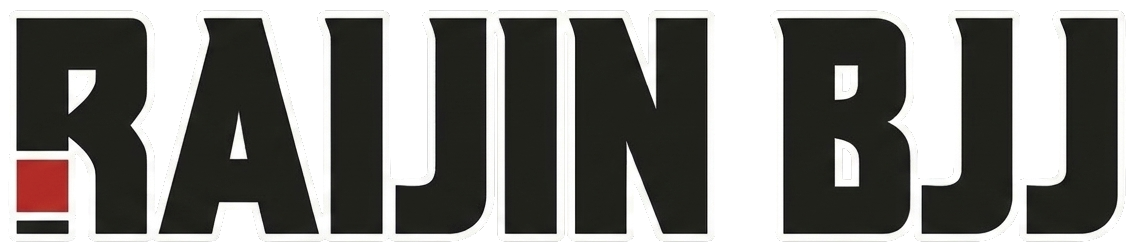
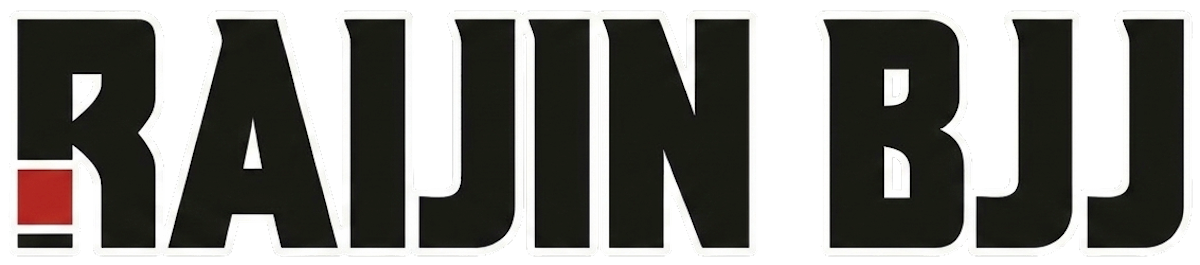
Optimise images to webp for faster load times

diff --git a/index.html b/index.html
@@ -38,12 +38,12 @@
                     </div>
                 </div>
                 <div>
-                    <img src="assets/images/raijin-hero.png" alt="Raijin BJJ Hanoi Hero" class="responsive-img"
-                        style="width: 100%; aspect-ratio: 4 / 3; border-radius: 8px; object-fit: cover;"
+                    <img src="assets/images/raijin-hero-test.webp" alt="Raijin BJJ Hanoi Hero" class="responsive-img"
+                        style="width: 100%; aspect-ratio: 3 / 2; border-radius: 8px; object-fit: cover;"
                         onerror="this.style.display='none'; this.nextElementSibling.style.display='block';" />
                     <div class="img-placeholder" style="display: none; min-height: 340px;">
                         <span>[RAIJIN HERO PHOTO PLACEHOLDER]</span>
-                        <p>File: assets/images/raijin-hero.jpg</p>
+                        <p>File: assets/images/raijin-hero.webp</p>
                     </div>
                 </div>
             </div>
@@ -60,13 +60,13 @@
                     <!-- Gi Classes Card -->
                     <div class="card">
                         <div style="margin-bottom: 20px;">
-                            <img src="assets/images/raijin-gi.png" alt="Raijin BJJ Gi Class session"
+                            <img src="assets/images/raijin-gi.webp" alt="Raijin BJJ Gi Class session"
                                 class="responsive-img"
                                 style="width: 100%; aspect-ratio: 4/3; border-radius: 8px; object-fit: cover;"
                                 onerror="this.style.display='none'; this.nextElementSibling.style.display='block';" />
                             <div class="img-placeholder" style="display: none; min-height: 180px;">
                                 <span>[GI CLASS PHOTO PLACEHOLDER]</span>
-                                <p>File: assets/images/gi-class.jpg</p>
+                                <p>File: assets/images/gi-class.webp</p>
                             </div>
                         </div>
                         <h3>Gi Classes</h3>
@@ -77,13 +77,13 @@
                     <!-- No-Gi Classes Card -->
                     <div class="card">
                         <div style="margin-bottom: 20px;">
-                            <img src="assets/images/raijin-no-gi.png" alt="Raijin BJJ No-Gi Class session"
+                            <img src="assets/images/raijin-no-gi.webp" alt="Raijin BJJ No-Gi Class session"
                                 class="responsive-img"
                                 style="width: 100%; aspect-ratio: 4/3; border-radius: 8px; object-fit: cover;"
                                 onerror="this.style.display='none'; this.nextElementSibling.style.display='block';" />
                             <div class="img-placeholder" style="display: none; min-height: 180px;">
                                 <span>[NO-GI CLASS PHOTO PLACEHOLDER]</span>
-                                <p>File: assets/images/nogi-class.png</p>
+                                <p>File: assets/images/nogi-class.webp</p>
                             </div>
                         </div>
                         <h3>No-Gi Classes</h3>
@@ -94,13 +94,13 @@
                     <!-- Open Mat Card -->
                     <div class="card">
                         <div style="margin-bottom: 20px;">
-                            <img src="assets/images/raijin-open-mat.png" alt="Raijin BJJ open mat session"
+                            <img src="assets/images/raijin-open-mat.webp" alt="Raijin BJJ open mat session"
                                 class="responsive-img"
                                 style="width: 100%; aspect-ratio: 4/3; border-radius: 8px; object-fit: cover;"
                                 onerror="this.style.display='none'; this.nextElementSibling.style.display='block';" />
                             <div class="img-placeholder" style="display: none; min-height: 180px;">
                                 <span>[RAIJIN OPEN MAT PHOTO PLACEHOLDER]</span>
-                                <p>File: assets/images/raijin-open-mat.png</p>
+                                <p>File: assets/images/raijin-open-mat.webp</p>
                             </div>
                         </div>
                         <h3>Open Mat</h3>
@@ -124,13 +124,13 @@
                             globe, creating a diverse and engaging training atmosphere.</p>
                     </div>
                     <div>
-                        <img src="assets/images/raijin-community.png"
+                        <img src="assets/images/raijin-community.webp"
                             alt="Raijin BJJ Hanoi Community, Members and Coaching" class="responsive-img"
-                            style="width: 100%; height: auto; border-radius: 8px; object-fit: cover;"
+                            style="width: 100%; aspect-ratio: 4/3; border-radius: 8px; object-fit: cover;"
                             onerror="this.style.display='none'; this.nextElementSibling.style.display='block';" />
                         <div class="img-placeholder" style="display: none;">
                             <span>[RAIJIN COMMUNITY PHOTO PLACEHOLDER]</span>
-                            <p>File: assets/images/raijin-community.png</p>
+                            <p>File: assets/images/raijin-community.webp</p>
                         </div>
                     </div>
                 </div>
@@ -145,12 +145,12 @@
                     complete details.</p>
 
                 <div class="timetable-image-container" style="text-align: center; max-width: 500px; margin: 0 auto;">
-                    <img src="assets/images/raijin-timetable.png" alt="Raijin BJJ Hanoi Weekly Class Schedule"
+                    <img src="assets/images/raijin-timetable.webp" alt="Raijin BJJ Hanoi Weekly Class Schedule"
                         style="width: 100%; height: auto; border-radius: 8px; border: 1px solid var(--border-color); box-shadow: 0 4px 12px rgba(0, 0, 0, 0.3);"
                         onerror="this.style.display='none'; this.nextElementSibling.style.display='block';" />
                     <div class="img-placeholder" style="display: none; min-height: 400px;">
                         <span>[RAIJIN TIMETABLE IMAGE PLACEHOLDER]</span>
-                        <p>File: assets/images/raijin-timetable.png</p>
+                        <p>File: assets/images/raijin-timetable.webp</p>
                     </div>
                     <div style="margin-top: 24px;">
                         <a href="timetable.html" class="btn btn-primary">View Full Timetable</a>

diff --git a/visiting-hanoi.html b/visiting-hanoi.html
@@ -42,13 +42,13 @@
                             experience the local martial arts community.</p>
                     </div>
                     <div style="margin-bottom: 32px; max-width: 600px; margin-left: auto; margin-right: auto;">
-                        <img src="assets/images/raijin-flag.jpeg" alt="Raijin BJJ Hanoi Flag" class="responsive-img"
+                        <img src="assets/images/raijin-flag.webp" alt="Raijin BJJ Hanoi Flag" class="responsive-img"
                             style="width: 100%; aspect-ratio: 4 / 3; border-radius: 8px; object-fit: cover; border: 1px solid var(--border-color);"
                             onerror="this.style.display='none'; this.nextElementSibling.style.display='block';" />
 
                         <div class="img-placeholder" style="display: none; min-height: 200px;">
                             <span>[RAIJIN FLAG PHOTO PLACEHOLDER]</span>
-                            <p>File: assets/images/raijin-flag.jpeg</p>
+                            <p>File: assets/images/raijin-flag.webp</p>
                         </div>
                     </div>
                 </div>

diff --git a/beginners.html b/beginners.html
@@ -45,7 +45,7 @@
                     </div>
                     <div>
                         <div>
-                            <img src="assets/images/raijin-beginners.jpg"
+                            <img src="assets/images/raijin-beginners.webp"
                                 alt="Beginners training session at Raijin BJJ Hanoi" class="responsive-img"
                                 style="width: 100%; aspect-ratio: 4 / 3; border-radius: 8px; object-fit: cover;"
                                 onerror="this.style.display='none'; this.nextElementSibling.style.display='block';" />
@@ -53,7 +53,7 @@
                             <!-- Fallback placeholder if image is missing -->
                             <div class="img-placeholder" style="display: none; min-height: 200px;">
                                 <span>[RAIJIN BEGINNERS PHOTO PLACEHOLDER]</span>
-                                <p>File: assets/images/raijin-beginners.jpg</p>
+                                <p>File: assets/images/raijin-beginners.webp</p>
                             </div>
                         </div>
                     </div>

diff --git a/contact.html b/contact.html
@@ -87,7 +87,7 @@
                         like from the street:</p>
 
                     <div style="margin-top: 16px;">
-                        <img src="assets/images/raijin-exterior.png" alt="Raijin BJJ Hanoi Storefront Entrance"
+                        <img src="assets/images/raijin-exterior.webp" alt="Raijin BJJ Hanoi Storefront Entrance"
                             class="responsive-img"
                             style="width: 100%; aspect-ratio: 4 / 3; border-radius: 8px; object-fit: cover;"
                             onerror="this.style.display='none'; this.nextElementSibling.style.display='block';" />
@@ -95,7 +95,7 @@
                         <!-- Fallback placeholder if image is missing -->
                         <div class="img-placeholder" style="display: none; min-height: 200px;">
                             <span>[RAIJIN EXTERIOR PHOTO PLACEHOLDER]</span>
-                            <p>File: assets/images/raijin-exterior.png</p>
+                            <p>File: assets/images/raijin-exterior.webp</p>
                         </div>
                     </div>
                 </div>
